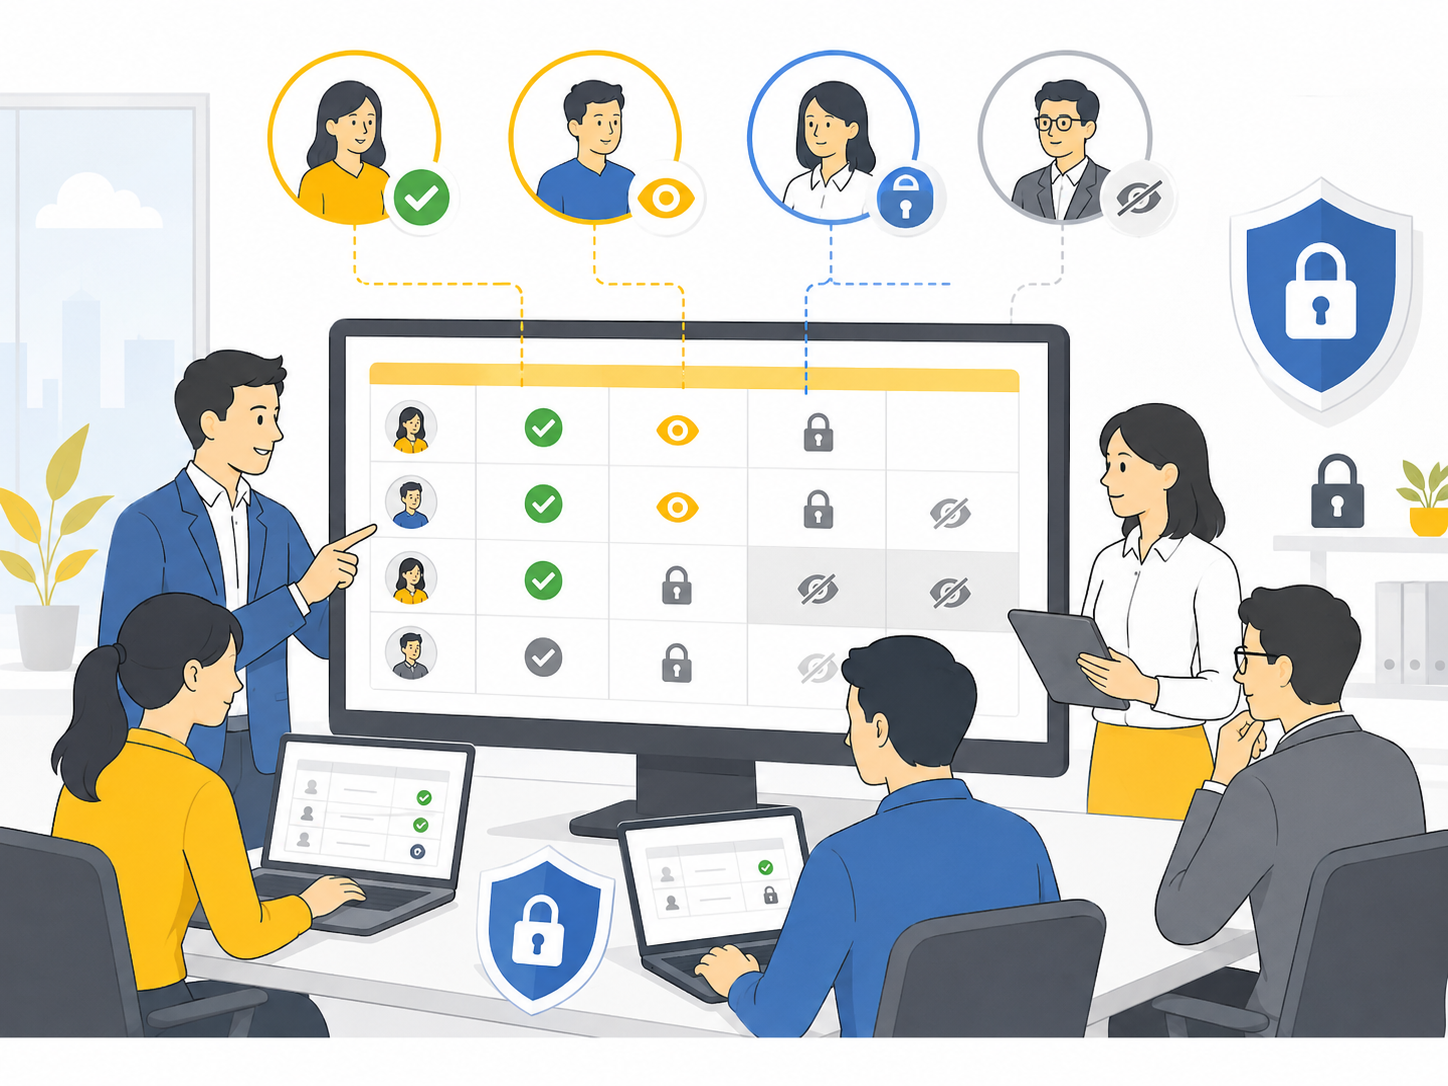
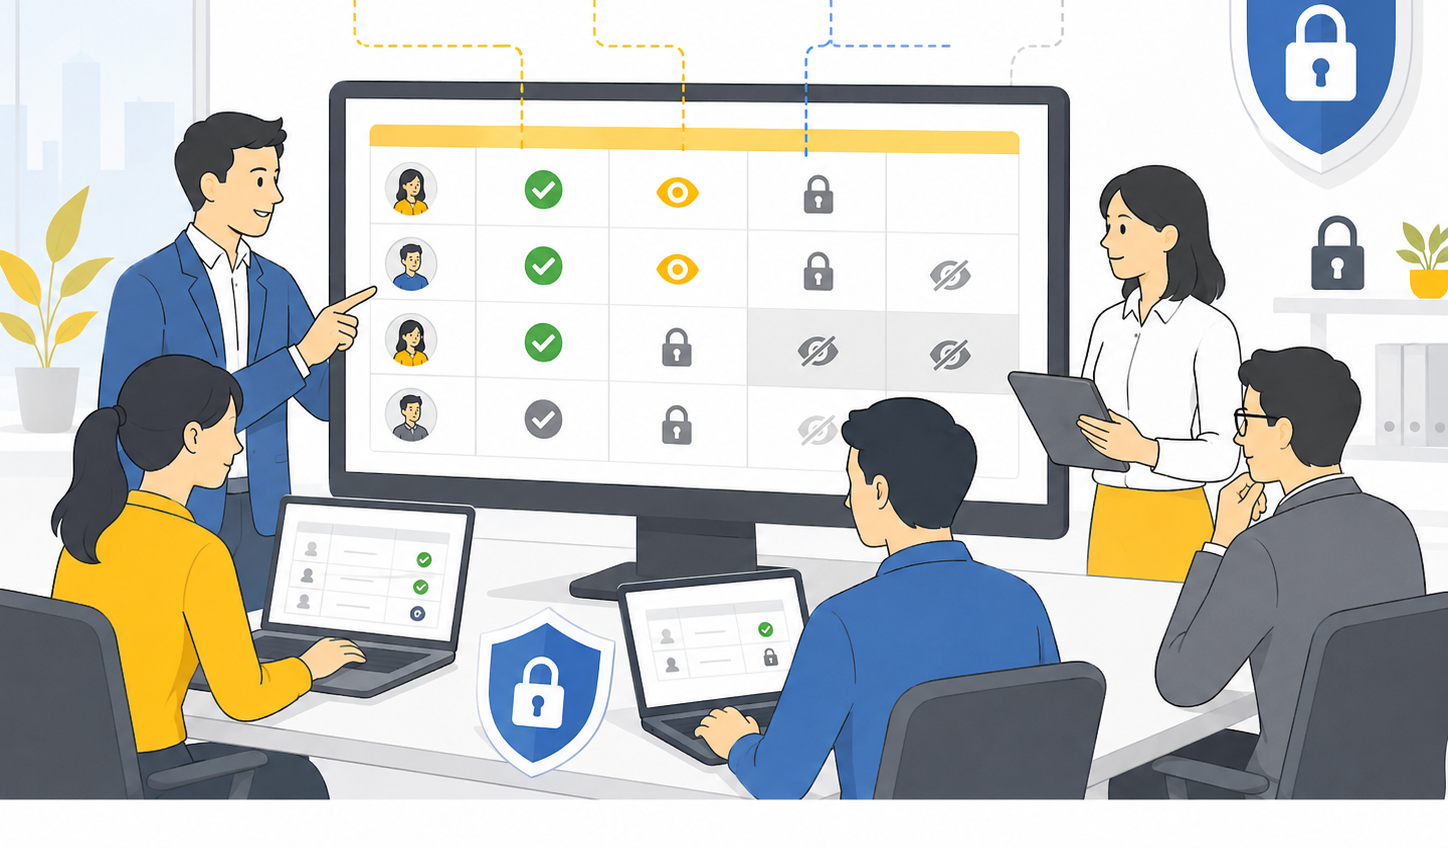
アクセス権概要画像：上部22%をトリミング、全体表示に変更

diff --git a/column/kintone-access-permission/index.html b/column/kintone-access-permission/index.html
@@ -767,7 +767,7 @@
                 <h2><i class="fas fa-info-circle"></i> kintone（キントーン）のアクセス権機能とは？</h2>
 
                 <figure style="max-width: 800px; margin: 0 auto 32px; text-align: center;">
-                    <img src="../../images/column/access-permission-overview.png" alt="kintoneのアクセス権機能の概要" style="width: 100%; aspect-ratio: 2/1; object-fit: cover; border-radius: 8px; display: block;">
+                    <img src="../../images/column/access-permission-overview.png" alt="kintoneのアクセス権機能の概要" style="width: 100%; height: auto; border-radius: 8px; display: block;">
                 </figure>
 
                 <p>
